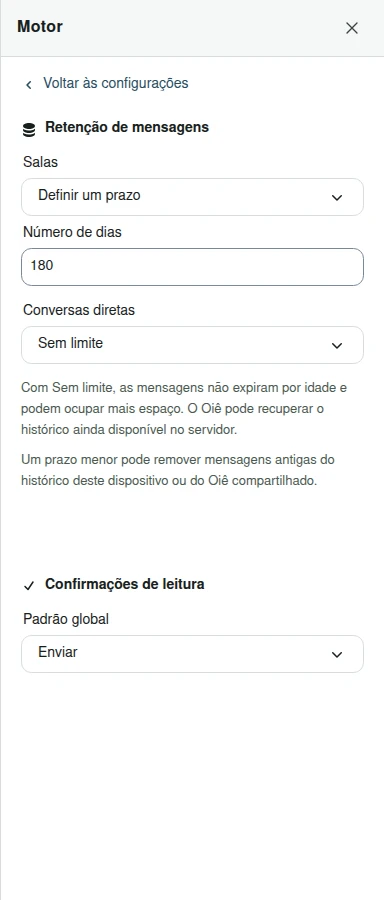
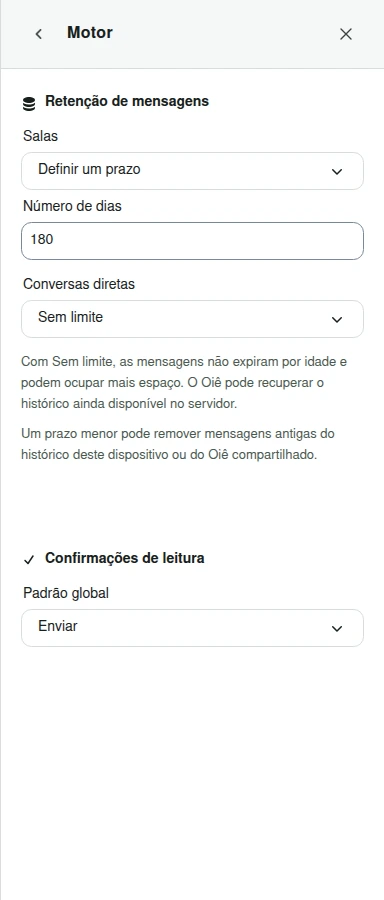
Mostrar o retorno no cabeçalho dos painéis

diff --git a/content/docs/manual/index.md b/content/docs/manual/index.md
@@ -170,7 +170,7 @@ A prévia pode mostrar nome, descrição, assunto, foto e número de participant
 ### Descobrir e gerenciar salas
 
 - Em **Nova conversa → Entrar na sala**, abra **Explorar salas públicas** e selecione uma sala para preencher o endereço e ver a prévia. Confirme quando quiser entrar.
-- Selecione a imagem da sala no cabeçalho da conversa e abra **Gerenciar sala**, logo abaixo do nome. Em **Detalhes**, escolha **Editar nome e tópico**. Altere os campos, selecione **Revisar alterações** e confira os valores antigos e novos antes de **Publicar alterações**. As opções dependem das permissões da sua conta. A descrição aparece quando o serviço a fornece. Use **Mais opções → Convidar pessoas** para enviar um convite quando a sala permitir.
+- Selecione a imagem da sala no cabeçalho da conversa e abra **Gerenciar sala**, logo abaixo do nome. A seta à esquerda de **Gerenciar sala** leva de volta aos detalhes da conversa. O **×** fecha o painel. Em **Detalhes**, escolha **Editar nome e tópico**. Altere os campos, selecione **Revisar alterações** e confira os valores antigos e novos antes de **Publicar alterações**. As opções dependem das permissões da sua conta. A descrição aparece quando o serviço a fornece. Use **Mais opções → Convidar pessoas** para enviar um convite quando a sala permitir.
 - Em **Participantes**, busque pelo apelido e abra o nome da pessoa para ver as ações disponíveis. Dependendo das permissões, você pode alterar a função, remover a pessoa ou ajustar o acesso à sala. Em **Banimentos**, administradores e proprietários podem buscar um banimento, banir por endereço ou retirar um banimento.
 - Se o servidor oferecer moderação e sua conta tiver permissão, use **Remover mensagem** no menu da mensagem. A remoção aparece quando a sala a confirma.
 
